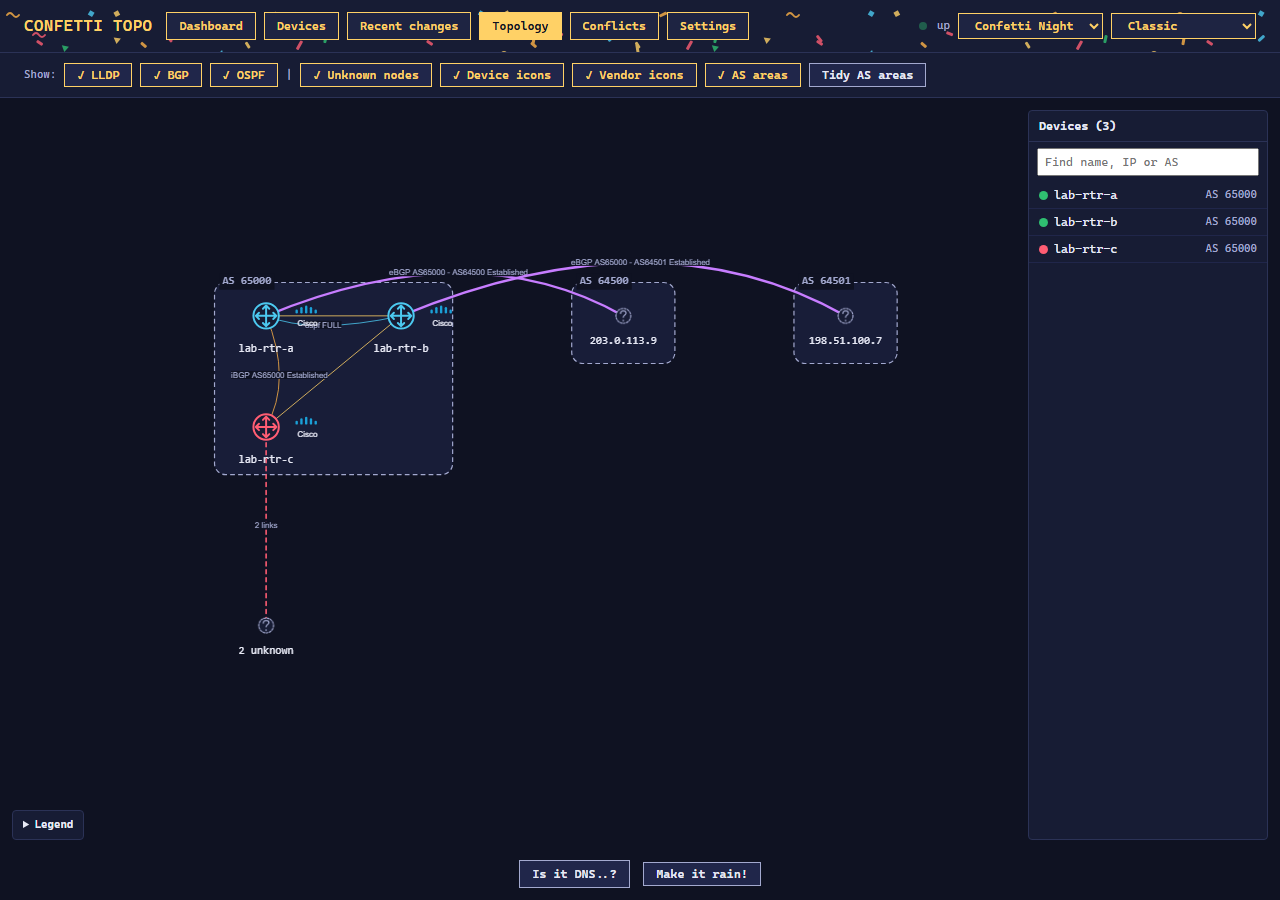
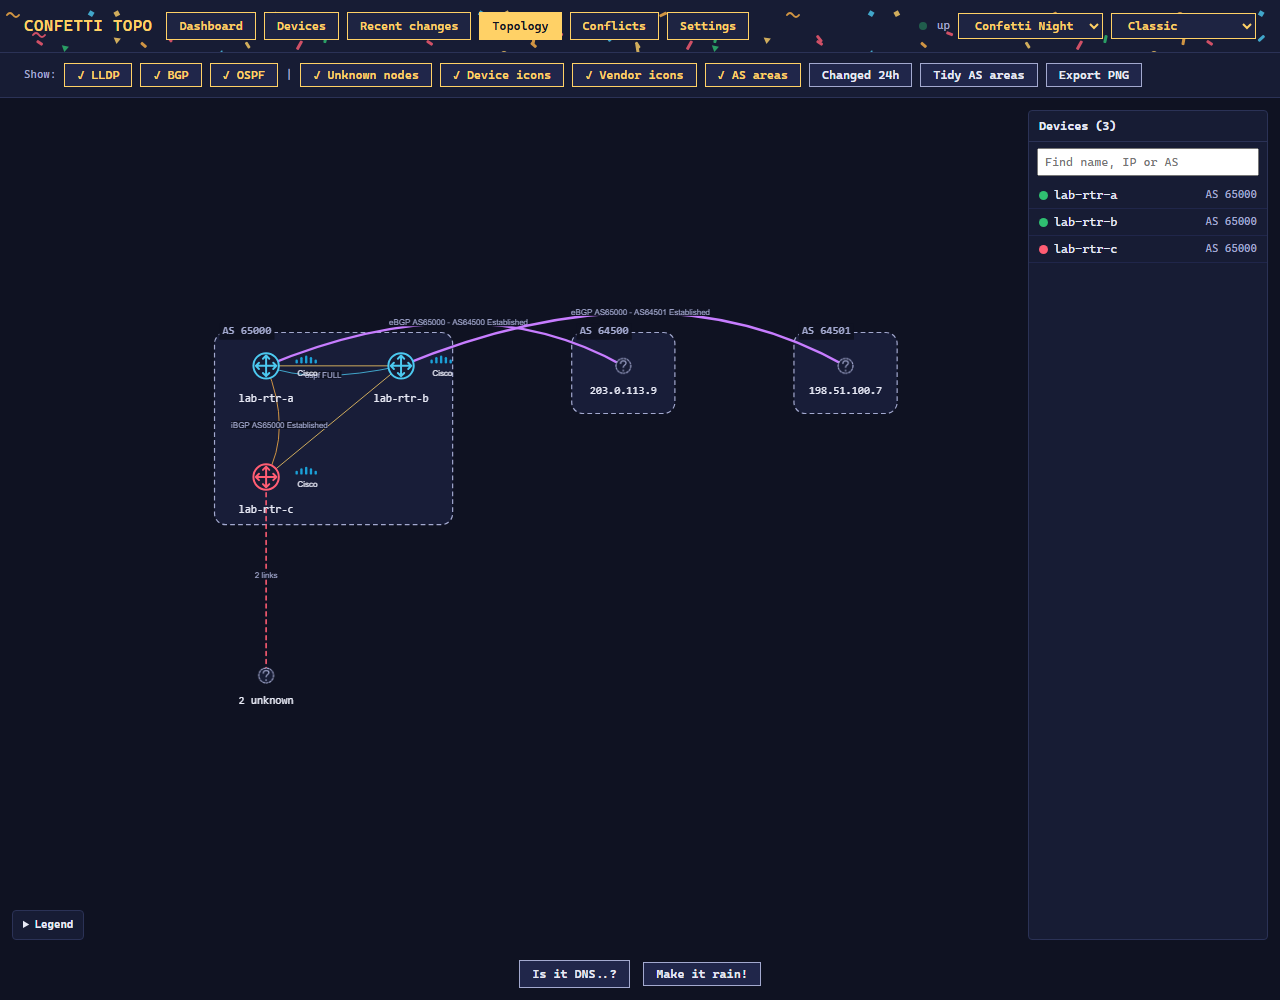
Topology: Changed 24h glow; docs; README images re-recorded

diff --git a/topo/templates/topology.html b/topo/templates/topology.html
@@ -76,6 +76,7 @@ button.active { border-color: var(--cyan); color: var(--cyan); }
     <button class="active" id="icons-btn" aria-pressed="true" onclick="toggleIcons(this)" title="Draw devices as icons with a vendor mark. Off: plain boxes for every device">Device icons</button>
     <button class="active" id="vendor-btn" aria-pressed="true" onclick="toggleVendor(this)" title="Show the vendor mark and name beside each device icon">Vendor icons</button>
     <button class="active" id="as-btn" aria-pressed="true" onclick="toggleAsAreas(this)" title="Draw a box around the routers of each BGP AS (needs BGP shown)">AS areas</button>
+    <button id="changed-btn" aria-pressed="false" onclick="toggleChanged(this)" title="Glow around devices that had a change event in the last 24 hours">Changed 24h</button>
     <button id="tidy-btn" onclick="tidyAsAreas()" title="Move the routers so each BGP AS sits in its own block (changes the saved places)">Tidy AS areas</button>
     <button id="png-btn" onclick="exportPng()" title="Download the map as a PNG picture">Export PNG</button>
 </div>
@@ -200,6 +201,7 @@ function toVisNodes(nodes) {
     return nodes.map(function (n) {
         var o = oneVisNode(n, GROUP_COLOR);
         o.opacity = searchOpacity(n);
+        if (changedBy[n.id]) { var look = changedLook(n.id); o.shadow = look.shadow; o.title = look.title; }
         if (n.ghost) { o.mass = 0.5; }   // an unidentified neighbor is pushed around more than a router
         if (n.members) { o.title = n.members.join('\n'); }   // hover on a group lists what is in it
         if (n.x !== undefined) { o.x = n.x; o.y = n.y; }   // a place saved on the server
@@ -622,6 +624,44 @@ var VENDOR_ON_KEY = 'confetti-topo-vendor-icons';
 
 function vendorOn() {
     return document.getElementById('vendor-btn').className === 'active';
+}
+
+// Changed 24h: a yellow glow around a device with a change event (interface, peer, neighbor, OS...) in the last
+// 24 hours, from /api/events. A look setting like the icons: no FILTERED marker. Off by default.
+var CHANGED_KEY = 'confetti-topo-changed-24h';
+var changedBy = {};   // node id -> number of events
+
+function changedOn() { return document.getElementById('changed-btn').className === 'active'; }
+
+function changedLook(id) {
+    var n = changedBy[id];
+    return n ? { shadow: { enabled: true, color: themeColor('--yellow'), size: 24, x: 0, y: 0 },
+                 title: n + (n === 1 ? ' change' : ' changes') + ' in the last 24 h' }
+             : { shadow: { enabled: false }, title: undefined };
+}
+
+function loadChanged() {
+    if (!changedOn()) { changedBy = {}; applyChanged(); return; }
+    fetch('/api/events?hours=24&limit=1000').then(function (r) { return r.json(); }).then(function (list) {
+        var by = {};
+        list.forEach(function (e) { if (e.device_id) { by['dev:' + e.device_id] = (by['dev:' + e.device_id] || 0) + 1; } });
+        changedBy = by;
+        applyChanged();
+    }).catch(function () { /* keep what is shown */ });
+}
+
+function applyChanged() {
+    if (!nodeSet) { return; }
+    nodeSet.update(nodeSet.getIds().filter(function (id) { return id.indexOf('dev:') === 0; }).map(function (id) {
+        var look = changedLook(id);
+        return { id: id, shadow: look.shadow, title: look.title };
+    }));
+}
+
+function toggleChanged(btn) {
+    setLayerButton(btn, btn.className !== 'active');
+    try { localStorage.setItem(CHANGED_KEY, changedOn() ? '1' : '0'); } catch (e) { /* not remembered */ }
+    loadChanged();
 }
 
 // AS areas: a rounded box behind the routers of each BGP AS, drawn on vis's canvas under the links.
@@ -1167,9 +1207,12 @@ try { setLayerButton(document.getElementById('vendor-btn'), localStorage.getItem
 try { setLayerButton(document.getElementById('as-btn'), localStorage.getItem(AS_AREAS_KEY) !== '0'); } catch (e) { /* shown */ }
 try { setLayerButton(document.getElementById('icons-btn'), localStorage.getItem(ICONS_ON_KEY) !== '0'); } catch (e) { /* shown */ }
 try { setLayerButton(document.getElementById('unknown-btn'), localStorage.getItem(UNKNOWN_KEY) !== '1'); } catch (e) { /* shown */ }
+try { setLayerButton(document.getElementById('changed-btn'), localStorage.getItem(CHANGED_KEY) === '1'); } catch (e) { /* off */ }
 updateFilterMarker();
 load();
+loadChanged();
 setInterval(load, 20000);
+setInterval(loadChanged, 20000);
 document.addEventListener('themechange', load);
 </script>
 {% endblock %}

diff --git a/.claude/skills/confetti-topo-ui/SKILL.md b/.claude/skills/confetti-topo-ui/SKILL.md
@@ -21,7 +21,7 @@ CDN.
   Green CRT). It loads **after** `theme.css` on purpose. Use `.section > .section-header + .section-body`, not
   your own card CSS.
 - localStorage keys: `confetti-topo-theme`, `confetti-topo-layout`, `confetti-topo-theme-shuffle`, `confetti-topo-layers` (the topology's LLDP/BGP/OSPF
-  toggles) and `confetti-topo-hide-unknown` (the "Unknown nodes" toggle: hides ghost nodes and their edges in the browser only; a yellow FILTERED marker over the map shows while any layer is off or unknown nodes are hidden; its "Show all" resets all of these) and `confetti-topo-hidden-nodes` (nodes hidden from the click-a-node card; viewer-side only, like the unknown-nodes toggle), `confetti-topo-device-icons` and `confetti-topo-vendor-icons` (the Device icons / Vendor icons toggles, on by default) and `confetti-topo-hidden-icons` (the node card's Hide icon checkbox). The icon keys are look settings, not filters: no FILTERED marker, and Show all leaves them alone. Right-click menus use the shared `static/ctxmenu.js` (the same file as confetti-butler and confetti-traffic;
+  toggles) and `confetti-topo-hide-unknown` (the "Unknown nodes" toggle: hides ghost nodes and their edges in the browser only; a yellow FILTERED marker over the map shows while any layer is off or unknown nodes are hidden; its "Show all" resets all of these) and `confetti-topo-hidden-nodes` (nodes hidden from the click-a-node card; viewer-side only, like the unknown-nodes toggle), `confetti-topo-changed-24h` (the Changed 24h glow, off by default), `confetti-topo-device-icons` and `confetti-topo-vendor-icons` (the Device icons / Vendor icons toggles, on by default) and `confetti-topo-hidden-icons` (the node card's Hide icon checkbox). The icon keys are look settings, not filters: no FILTERED marker, and Show all leaves them alone. Right-click menus use the shared `static/ctxmenu.js` (the same file as confetti-butler and confetti-traffic;
   fill `data-*` attributes with `ctxMenu.attr()`, R29). On the map: vis-network's `oncontext` event plus
   `getNodeAt`, then `ctxMenu.open(x, y, spec)` with window coordinates; the browser's own menu is blocked on the map.
 - Flask caches templates; restart the server after an edit. A literal `{{` in inline JS needs

diff --git a/README.md b/README.md
@@ -22,7 +22,7 @@ project [confetti-traffic](https://github.com/orneh24/confetti-traffic).
   A cable or session that both routers report is drawn once. A neighbor that is not a known device shows
   as a dashed "ghost" node, so nothing is silently dropped. A BGP/OSPF session that is not Established /
   FULL is red and dashed. A BGP session inside one AS (iBGP) is a thin yellow line and one between two ASes (eBGP)
-  a thick purple line, and an "AS areas" toggle draws a box around the routers of each AS ("Tidy AS areas" moves the routers so each AS has its own block; a new map starts that way). A list of all known devices on the right selects a device on the map when clicked; its search box (name, IP or AS) fades the other devices. An LLDP cable is red and dashed when a device reports its port down. Unknown nodes that hang off one router are grouped into a single "N unknown"
+  a thick purple line, and an "AS areas" toggle draws a box around the routers of each AS ("Tidy AS areas" moves the routers so each AS has its own block; a new map starts that way). A list of all known devices on the right selects a device on the map when clicked; its search box (name, IP or AS) fades the other devices. An LLDP cable is red and dashed when a device reports its port down. "Changed 24h" glows around devices that had a change in the last day, and "Export PNG" saves the map as a picture. Unknown nodes that hang off one router are grouped into a single "N unknown"
   node (double-click to open it). The layout stands still and is saved on the server, so everyone sees the
   same map (right-click the background and choose Re-arrange to start over). An LLDP link shows its ports
   on hover or when selected.

diff --git a/docs/CHANGELOG-GOAL.md b/docs/CHANGELOG-GOAL.md
@@ -20,3 +20,5 @@ Newest last. Times are local.
 - 2026-11-03 00:30 Topology: "Export PNG" button and map right-click item download the map as a PNG (page colour behind it).
 - 2026-11-03 00:32 Leak scan: one lab hostname in ROADMAP.md replaced by a model name (it is also in older commits on origin/routing-table). README capture viewport raised to 1280x1000.
 - 2026-11-03 01:00 Recent changes: "export CSV" downloads the events shown now (filters applied); cells that start with = + - @ are prefixed with ' so a spreadsheet does not run them.
+- 2026-11-03 01:40 Topology: "Changed 24h" toggle glows yellow around devices with a change event in the last 24 h (hover shows the count). Off by default. Export PNG right-click item checked.
+- 2026-11-03 01:45 README images re-recorded at 1280x1000: no tile is cut off now.

diff --git a/docs/TOPOLOGY-MAPPING.md b/docs/TOPOLOGY-MAPPING.md
@@ -250,6 +250,8 @@ against them.
 - Empty state: show a plain message ("no devices yet") and destroy the network object.
 - A Devices list on the right with a search box (name, management IP or AS; Enter selects the first match, Escape clears):
   non-matching devices fade to 0.2 opacity on the map and the match's linked devices to 0.6.
+- "Changed 24h" toggle (off by default): a yellow glow and a hover title around devices with a change event in the last 24 h
+  (`/api/events?hours=24`). "Export PNG" downloads the map.
 - Include a legend: node colours, ghost meaning, one swatch per link layer, the red dashed style.
 
 ## 10. Pitfalls (each one happened or nearly did)
